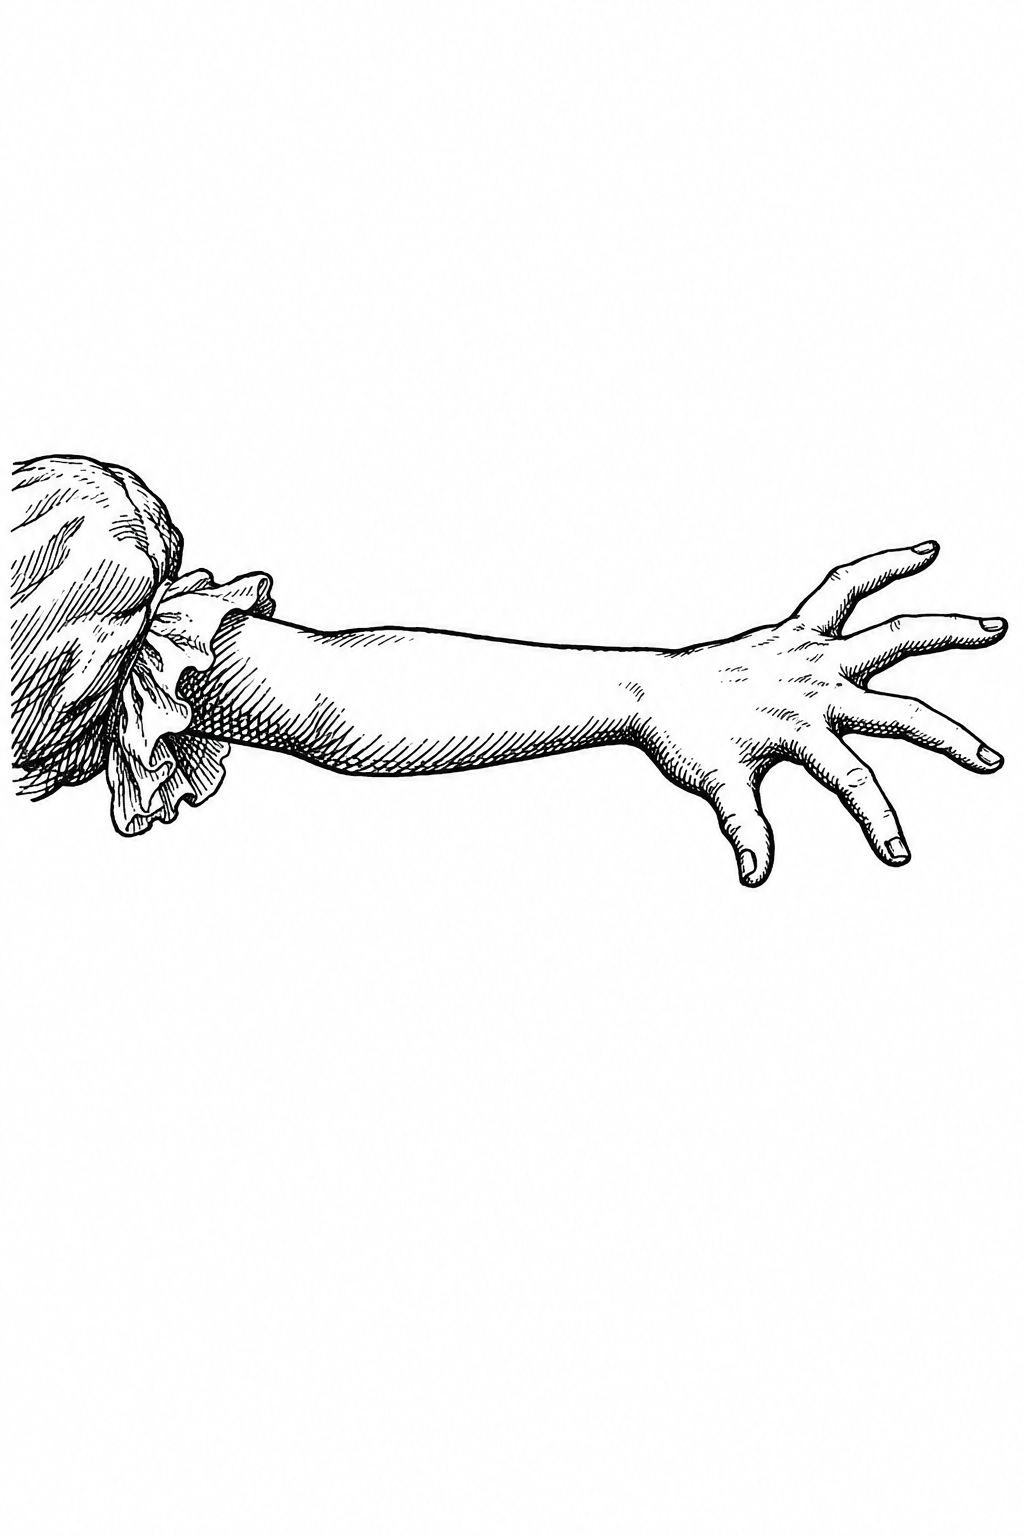
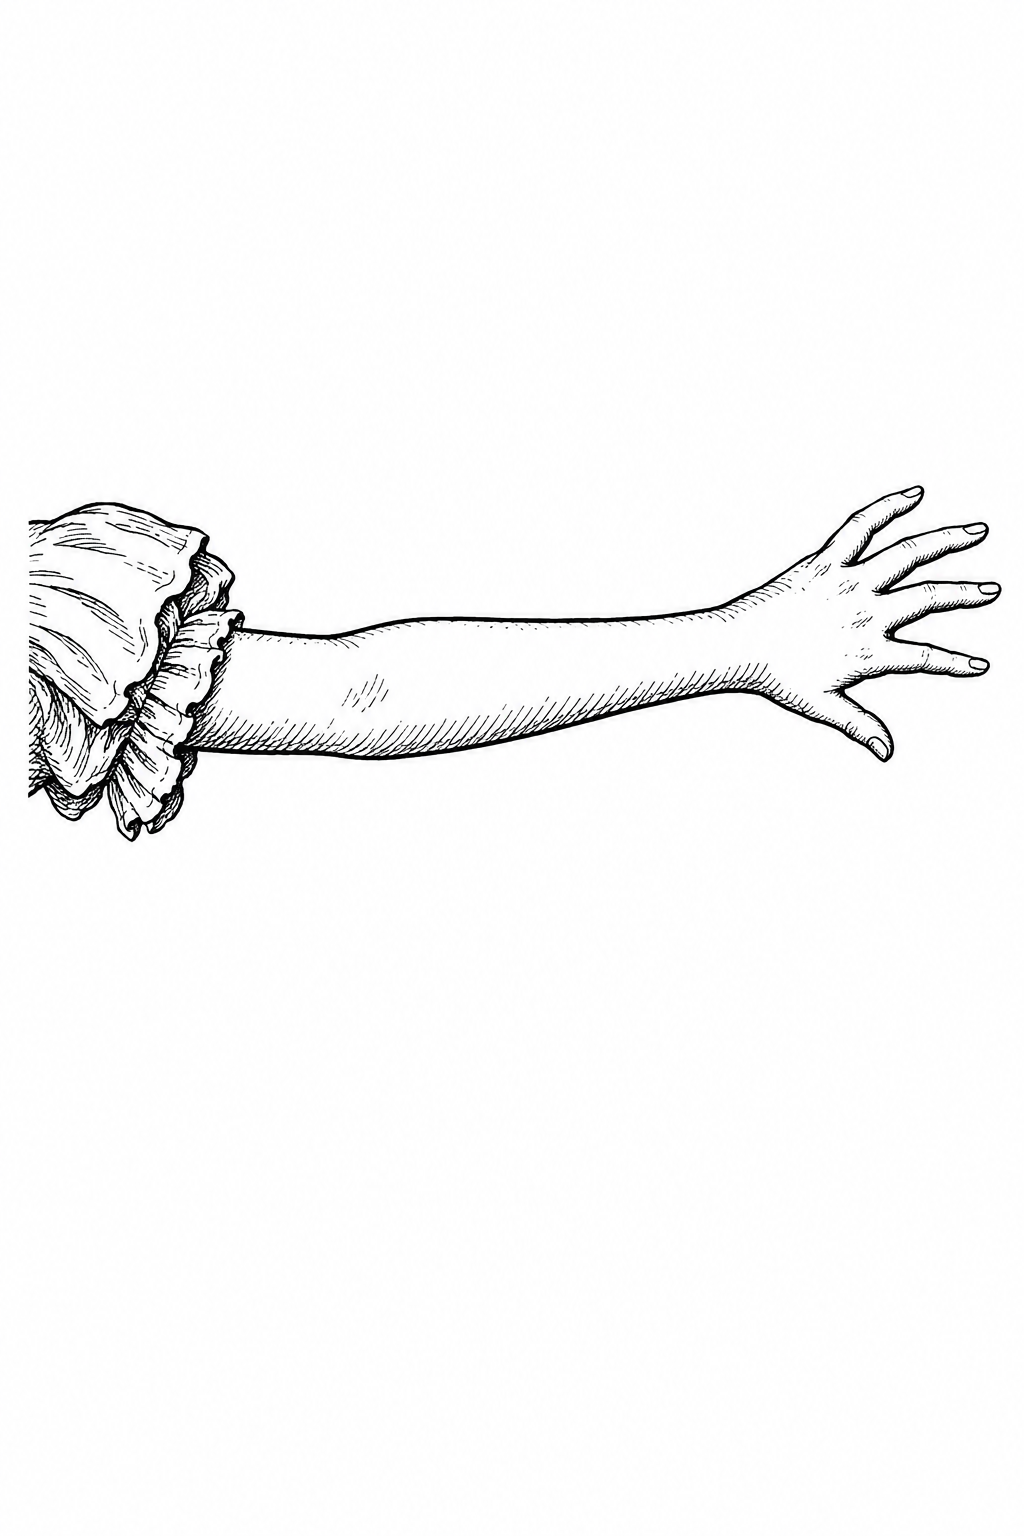
Alice's arm out of the window redrawn from the model sheet
The owner asked for the approved Alice model's hand rather than the
engraving: drawn from a crop of the model sheet, one thumb and four
fingers, her own sleeve.

Claude-Session: https://claude.ai/code/session_01JLwjHTre9qSRtmM6Ke648R

Changed region(s): [[0.0, 0.2812, 1.0, 0.5938]]

diff --git a/PROVENANCE.md b/PROVENANCE.md
@@ -144,7 +144,7 @@ Every shipped asset is listed here with its source. AI-generated or AI-modified 
 | ai_vignette_globe | `public/art/ai/vignettes/globe.webp` | AI | Chapter I prompt 38, remade (owner, 2026-10-14) to show latitude, longitude and the 4000 miles to the centre; original `source/ai/vignette_globe.png` | OpenAI gpt-image-2.5-sunburst via the API (generated by Claude Code, 2026-10-14) | Whole image generated. Paper-tinted, fitted to the thought oval (`tools/ch1_art.py`). Used in Chapter I, the fall. | 2026-10-14 | Owner (requested), Claude Code (generated, processed) |
 | ai_alice3_call_v2 | `public/art/ai/poses/call.webp` | AI | Second version of Chapter III prompt 7; original in `source/ai/alice3_call_v2.webp` | OpenAI ChatGPT (GPT-6 chat); OpenAI image generation, exact image model not disclosed; received 2026-10-12 | Whole image generated. Cut out, paper-tinted and scaled to the standing Alice (`tools/compose_poses.py`). Replaces the first version (kept as a spare). | 2026-10-12 | Owner (generated), Claude Code (processed) |
 | ai_alice6_poses | `public/art/ai/poses/peep.webp`, `laugh`, `knock`, `sneeze`, `baby`, `pig`, `terror`, `back`, `catch` | AI | Chapter VI prompts 1–9; originals in `source/ai/alice6_*.png`, from the model sheet `source/ai/alice_turnaround.webp` (with Tenniel's plates 6.3 and 6.4 cropped to Alice for the baby, pig and from-behind poses: `source/plates/tenniel_w06-3_alice_only.png`, `tenniel_w06-4_alice_back_only.png`) | OpenAI gpt-image-2.5-sunburst via the API (generated by Claude Code, 2026-10-14) | Whole images generated. Cut out, paper-tinted and scaled to the standing Alice with `tools/compose_poses.py`. Used in Chapter VI. | 2026-10-14 | Owner (approved), Claude Code (generated, processed) |
-| ai_alice45_poses | `public/art/ai/poses/hold4.webp`, `drink`, `giant`, `pebbles`, `stick`, `buttercup`, `tiptoe`, `lookup`, `grave`, `away`, `recite5`, `break`, `nibble`, `squashed`; `public/art/ai/ch4/alice_hand.webp` | AI | Chapter IV and V Alice prompts; originals in `source/ai/alice4_*.png` and `source/ai/alice5_*.png`, from the model sheet `source/ai/alice_turnaround.webp` (the arm after Tenniel's plate 4.2, cropped to the arm: `source/plates/tenniel_w04-2_hand_only.png`; redrawn the same day after the owner saw six fingers: now one thumb and four fingers, sleeve filled in by hand-coded column fill; plates 4.1, 4.2, 4.4 from victorianweb.org in `source/plates/`) | OpenAI gpt-image-2.5-sunburst via the API (generated by Claude Code, 2026-10-14) | Whole images generated. Cut out, paper-tinted and scaled to the standing Alice with `tools/compose_poses.py`. Used in Chapters IV and V. | 2026-10-14 | Owner (approved), Claude Code (generated, processed) |
+| ai_alice45_poses | `public/art/ai/poses/hold4.webp`, `drink`, `giant`, `pebbles`, `stick`, `buttercup`, `tiptoe`, `lookup`, `grave`, `away`, `recite5`, `break`, `nibble`, `squashed`; `public/art/ai/ch4/alice_hand.webp` | AI | Chapter IV and V Alice prompts; originals in `source/ai/alice4_*.png` and `source/ai/alice5_*.png`, from the model sheet `source/ai/alice_turnaround.webp` (the arm after Tenniel's plate 4.2, cropped to the arm: `source/plates/tenniel_w04-2_hand_only.png`; redrawn twice the same day after the owner saw six fingers and a misshapen hand; the final arm is drawn from the approved model sheet only (owner: "use the approved Alice model's hand, not the engravings"), reference crop `source/ai/ref_alice_arms_crop.png`: one thumb and four fingers; plates 4.1, 4.2, 4.4 from victorianweb.org in `source/plates/`) | OpenAI gpt-image-2.5-sunburst via the API (generated by Claude Code, 2026-10-14) | Whole images generated. Cut out, paper-tinted and scaled to the standing Alice with `tools/compose_poses.py`. Used in Chapters IV and V. | 2026-10-14 | Owner (approved), Claude Code (generated, processed) |
 | ai_alice_walk_pair | `public/art/ai/poses/walk_a.webp`, `walk_b.webp` | AI | Alice walking, two matching steps in one drawing (owner, 2026-10-13); original in `source/ai/alice_walk_pair.webp` | OpenAI ChatGPT (GPT-6 chat); OpenAI image generation, exact image model not disclosed; received 2026-10-13 | Whole image generated. Split in two, cut out, paper-tinted and scaled to the standing Alice (`tools/compose_poses.py`). Replaces the earlier walk_a and the walk_b phone screenshot (both kept in source/ai). | 2026-10-13 | Owner (generated), Claude Code (processed) |
 | rabbit_white | `public/art/rabbit_w01-1_white.png`, `public/art/ai/ch1/rabbit_*.webp`, `public/art/ai/ch2/rabbit2_*.webp` | (see each Rabbit row) | The same Rabbit drawings | — | Paper tint taken off so he is pure white, pink eyes kept (owner, 2026-10-13; `tools/white_rabbit.py`). | 2026-10-13 | Claude Code |
 | ai_caterpillar_sit | `public/art/ai/ch5/caterpillar_sit.webp` | AI | Chapter V prompt 9 (docs/ASSETS_MASTER.md); original in `source/ai/caterpillar_sit.png` | OpenAI gpt-image-2 via the API (generated by Claude Code, 2026-10-13), from Tenniel's plate 5.1 cropped to the Caterpillar (source/plates/tenniel_w05-1_caterpillar_only.png) and the first version (source/ai/caterpillar_sit_v1.png) | Whole image generated. Cut out, the drawn mushroom cap removed, the Caterpillar coloured blue (COLOR.md) (`tools/ch5_art.py`). Used in Chapter IV's end and Chapter V. | 2026-10-13 | Owner (approved), Claude Code (generated, processed) |
